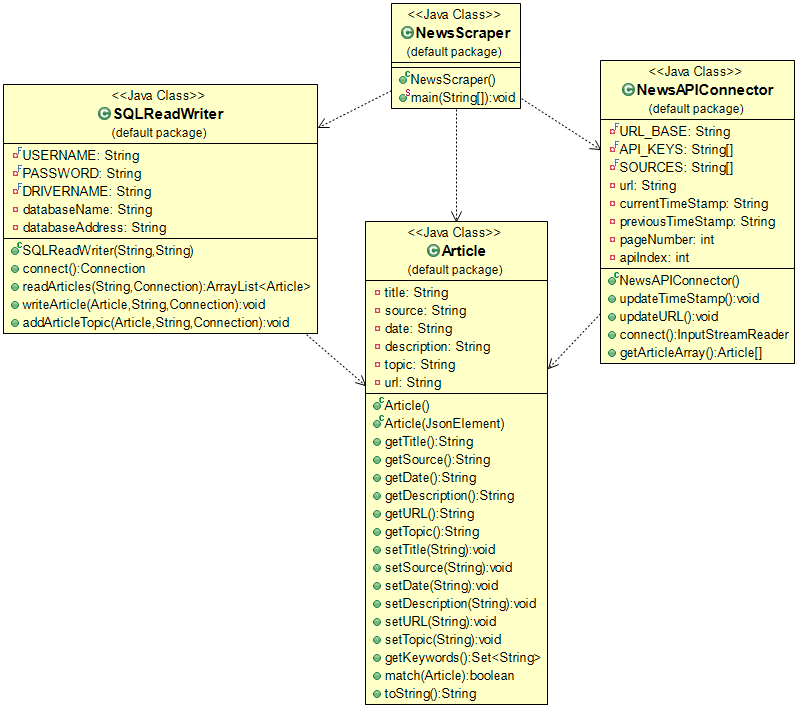
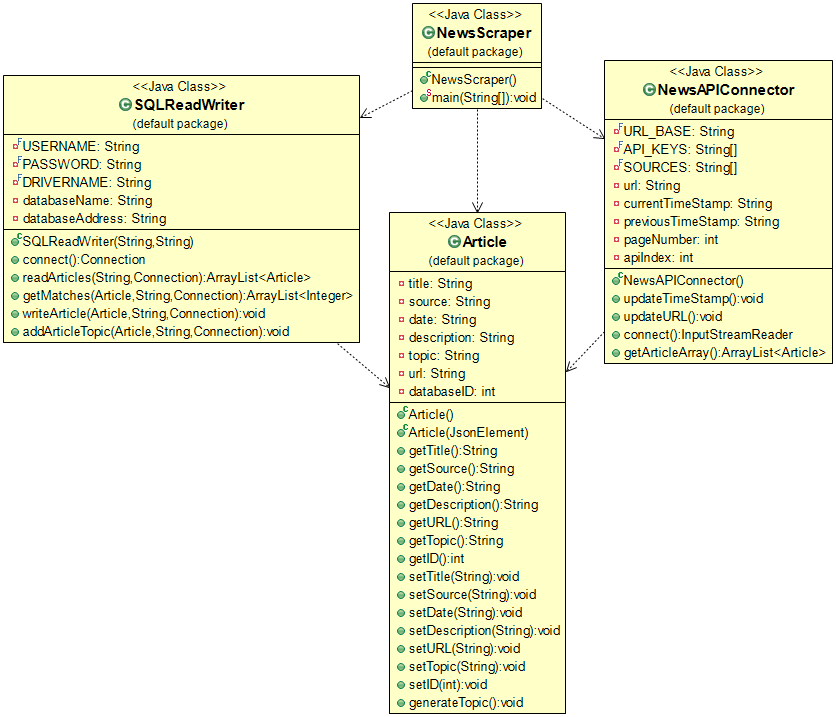
Faster Run

Changed region(s): [[0.0, 0.0621, 1.0, 0.9944], [0.4812, 0.0, 0.6617, 0.1554]]

diff --git a/News Scraper/src/SQLReadWriter.java b/News Scraper/src/SQLReadWriter.java
@@ -18,8 +18,8 @@ public class SQLReadWriter
 	// Instance Variables
 	//------------------------------------------------------------------------------------------------------------
 	
-	private final String USERNAME = "Itsbeenawile";
-	private final String PASSWORD = "RrQAYFbRjZvu9KsxRjQTZ8aK";
+	private final String USERNAME = "username";
+	private final String PASSWORD = "password";
 	private final String DRIVERNAME="com.mysql.jdbc.Driver";
 	private String databaseName, databaseAddress;
 	
@@ -113,6 +113,7 @@ public class SQLReadWriter
 				//Use Default Article Constructor to instantiate Article Objects
 				//Use Mutator Methods to Set Article Fields
 				Article article = new Article();
+				article.setID(sqlResults.getInt("id"));
 				article.setTitle(sqlResults.getString("title"));
 				article.setSource(sqlResults.getString("sources"));
 				article.setDate(sqlResults.getString("pubdate"));
@@ -143,17 +144,17 @@ public class SQLReadWriter
 	 * @param sqlConnection An SQL Connection object representing the connection to the relevant database.
 	 */
 	
-	public ArrayList<String> getMatches(Article article, String tableName, Connection sqlConnection)
+	public ArrayList<Integer> getMatches(Article article, String tableName, Connection sqlConnection)
 	{
 		//Declare an ArrayList to store URLs of Article's that match
-		ArrayList<String> returnArray = new ArrayList<>();
+		ArrayList<Integer> returnArray = new ArrayList<>();
 		
 		//Use Try/Catch to Handle Potential Exceptions
 		try
 		{
 			//Create a String to Hold SQL Statement and Initialize Properly
 			//This String calls for Matched Scores against a description ordered descending
-			String queryString = "SELECT url, MATCH (title, description) AGAINST " +
+			String queryString = "SELECT id, MATCH (title, description) AGAINST " +
 								 "(? IN NATURAL LANGUAGE MODE) AS score FROM " + tableName +
 								 " ORDER BY score DESC";
 			
@@ -171,8 +172,8 @@ public class SQLReadWriter
 				double matchScore = sqlResults.getDouble("score");
 				
 				//If matchScore >= .5, Add URL to ArrayList
-				if(matchScore >= 22.0)
-					returnArray.add(sqlResults.getString("url"));
+				if(matchScore >= 12.0)
+					returnArray.add(sqlResults.getInt("id"));
 				//Otherwise, end iterations, because Score is returned in descending order
 				else
 					break;
@@ -182,7 +183,7 @@ public class SQLReadWriter
 		catch(Exception e)
 		{
 			e.printStackTrace();
-			return new ArrayList<String>();
+			return new ArrayList<Integer>();
 		}
 		
 		//If no exception is thrown, return returnArray
@@ -256,14 +257,14 @@ public class SQLReadWriter
 			
 			//Define the string for the Update Query
 			//Use ? to indicate the parameters
-			String statementString = "UPDATE " + tableName + " SET topic = ? WHERE url = ? ";
+			String statementString = "UPDATE " + tableName + " SET topic = ? WHERE id = ? ";
 
 			//Prepare the Statement with the prepareStatement method
 			sqlStatement = sqlConnection.prepareStatement(statementString);
 
 			//Set each of the parameters for the sqlStatement
 			sqlStatement.setString(1, article.getTopic());
-			sqlStatement.setString(2, article.getURL());
+			sqlStatement.setInt(2, article.getID());
 
 			//Execute and close the Prepared Statement
 			sqlStatement.execute();

diff --git a/News Scraper/src/Article.java b/News Scraper/src/Article.java
@@ -22,6 +22,7 @@ public class Article
 	//------------------------------------------------------------------------------------------------------------
 	
 	private String title, source, date, description, topic, url;
+	private int databaseID;
 	
 	//------------------------------------------------------------------------------------------------------------
 	// Constructors
@@ -131,6 +132,18 @@ public class Article
 			return null;
 	}
 	
+	/**
+	 * The getID method returns an Article's databaseID field, for use with the SQL database.
+	 * 
+	 * @return An int containing the Article's SQL databaseID.
+	 */
+	
+	public int getID()
+	{
+		return databaseID;
+	}
+	
+	
 	//------------------------------------------------------------------------------------------------------------
 	// Mutator Methods
 	//------------------------------------------------------------------------------------------------------------
@@ -203,6 +216,17 @@ public class Article
 		this.topic = topic;
 	}
 	
+	/**
+	 * The setID method accepts an int argument and sets the Article's databaseID field accordingly.
+	 * 
+	 * @param databaseID An int containing the Article's SQL Database ID.
+	 */
+	
+	public void setID(int databaseID)
+	{
+		this.databaseID = databaseID;
+	}
+	
 	//------------------------------------------------------------------------------------------------------------
 	// Helper Methods
 	//------------------------------------------------------------------------------------------------------------
@@ -215,34 +239,20 @@ public class Article
 	
 	public void generateTopic()
 	{
-		//Use Try/Catch to Handle Potential Exception
-		try
-		{
-			//Instantiate ParallelDots object, passing API key
-			ParallelDots pdObject = new ParallelDots("Kwr4COFZaeu3JHwOPXuIHYFqeqdaajmAkF5VclV49Hw");
-	      
-			//Get Json Output from Parallel Dots based on current description field, save as String
-			String jsonString = pdObject.keywords(this.description);
-	      
-			//Use Gson classes to parse Json String into a JsonArray of Keywords
-			JsonParser pdParser = new JsonParser();
-			JsonObject jsonObject = pdParser.parse(jsonString).getAsJsonObject();
-			JsonArray keywordArray = jsonObject.get("keywords").getAsJsonArray();
-	      
-			//Instantiate string to hold new topic field
-			String newTopic = "";
-	    
-			//Iterate over JsonArray, concatenating Keywords Into String
-			for(JsonElement keywordElement : keywordArray)
-				newTopic += keywordElement.getAsJsonObject().get("keyword").toString() + " ";
-	    
-			//Update Topic field Accordingly
-			this.topic = newTopic;
-		}
-		catch(Exception e)
-		{
-			e.printStackTrace();
-		}
+		//Split Title of Article into String Array of Words
+		String[] titleArray = title.split("\\W");
+			
+		//Convert String Array into Set to remove duplicates
+		Set<String> titleSet = new HashSet<String>(Arrays.asList(titleArray));
+			
+		//Remove All Words <4 letters
+		Set<String> keywordSet = new HashSet<String>(); //A set to hold all >3 char words from title
+		for(String word : titleSet)
+			if(word.length() >= 4)
+				keywordSet.add(word); //Add each word of appropriate length to keywordSet
+			
+		topic = "";
+		for(String word : keywordSet)
+			topic += word + " ";
 	}
-	
 }

diff --git a/News Scraper/src/NewsScraper.java b/News Scraper/src/NewsScraper.java
@@ -36,12 +36,8 @@ public class NewsScraper
 			// NewsAPI to DB
 			//----------------------------------------------------------------------------------------------------
 			
-			System.out.println("Getting Articles");
-			
 			//Get Array of Articles from NewsAPI
 			ArrayList<Article> inputArray = newsConn.getArticleArray();
-			
-			System.out.println("Updating Database");
 			
 			//Iterate over Article Array, using SQLReadWriter class to write each Article to the article table
 			for(Article article : inputArray)
@@ -51,32 +47,27 @@ public class NewsScraper
 			newsConn.updateTimeStamp();
 			newsConn.updateURL();
 			
-			//TESTING LINE DELETE THIS
-			System.out.println("Finished Updating Database");
 			
 			//----------------------------------------------------------------------------------------------------
 			// Article Comparisons
 			//----------------------------------------------------------------------------------------------------
 			
-			System.out.println("Getting Articles from DB");
 			
 			//Instantiate Comparison ArrayList using SQLReadWriter readArticle Method
 			compareList = sqlWriter.readArticles("article", sqlConn);
-			
-			System.out.println("Comparing Articles...");
 			
 			int compareIndex = 0;
 			
 			while(compareIndex < compareList.size())
 			{
 				//Get URLs of Matching Articles
-				ArrayList<String> matchURLs = sqlWriter.getMatches(compareList.get(compareIndex), "article", sqlConn);
+				ArrayList<Integer> matchIDs = sqlWriter.getMatches(compareList.get(compareIndex), "article", sqlConn);
 				
 				ArrayList<Integer> matchIndices = new ArrayList<>();
 				
-				for(String url : matchURLs)
+				for(int id : matchIDs)
 					for(int i = compareIndex; i < compareList.size(); i++)
-						if(compareList.get(i).getURL().equals(url))
+						if(compareList.get(i).getID() == id)
 							matchIndices.add(i);
 				
 				if(matchIndices.size() > 1)
@@ -96,13 +87,16 @@ public class NewsScraper
 				}
 				else
 					compareIndex++;
-				
-				System.out.println("Compare Index: " + compareIndex);
-				System.out.println(compareList.size());
 			}
 			
-			//TESTING LINE TAKE THIS OUT
-			keepGoing = false;
+			try
+			{
+			Thread.sleep(1000 * 60 * 60);
+			}
+			catch(InterruptedException e)
+			{
+				continue;
+			}
 		}
 	}
 }

diff --git a/News Scraper/src/NewsAPIConnector.java b/News Scraper/src/NewsAPIConnector.java
@@ -24,7 +24,8 @@ public class NewsAPIConnector
 	private final String URL_BASE = "http://newsapi.org/v2/everything?language=en&sources=";
 	
 	private final String[] API_KEYS = {"19f78480cff94fc3bcebcdc57d3c5c70", "4e131f24ad254086a57351641b8ba21d",
-									   "a513991c58ac4bc58031b3bc981c4d5b", "6c324fcf238649d7a2d4019cafb64b7e"};
+									   "a513991c58ac4bc58031b3bc981c4d5b", "6c324fcf238649d7a2d4019cafb64b7e",
+									   "21d4cdd3f4f24bb3a3db7c34664daa72"};
 	
 	private final String[] SOURCES = {"abc-news", "associated-press", "bbc-news", "bloomberg", "breitbart-news", 
 									  "business-insider", "cnbc", "cnn", "fortune", "fox-news", 
@@ -178,9 +179,10 @@ public class NewsAPIConnector
 				return newsReader;
 			}
 			//If Too Many Requests Have Been Made with this API key
-			else if(responseCode == 429) 
+			else 
 			{
-				if(apiIndex < 3) //If All keys have not been exhuasted
+				System.out.println(responseCode);
+				if(apiIndex < 4) //If All keys have not been exhuasted
 				{
 					apiIndex++; //Move to next key
 					this.updateURL(); //Update URL with new key
@@ -192,9 +194,6 @@ public class NewsAPIConnector
 					return null; //Return null
 				}
 			}
-			//If error is unrecognized, return null
-			else
-				return null;	
 		}
 		catch(IOException e)
 		{
